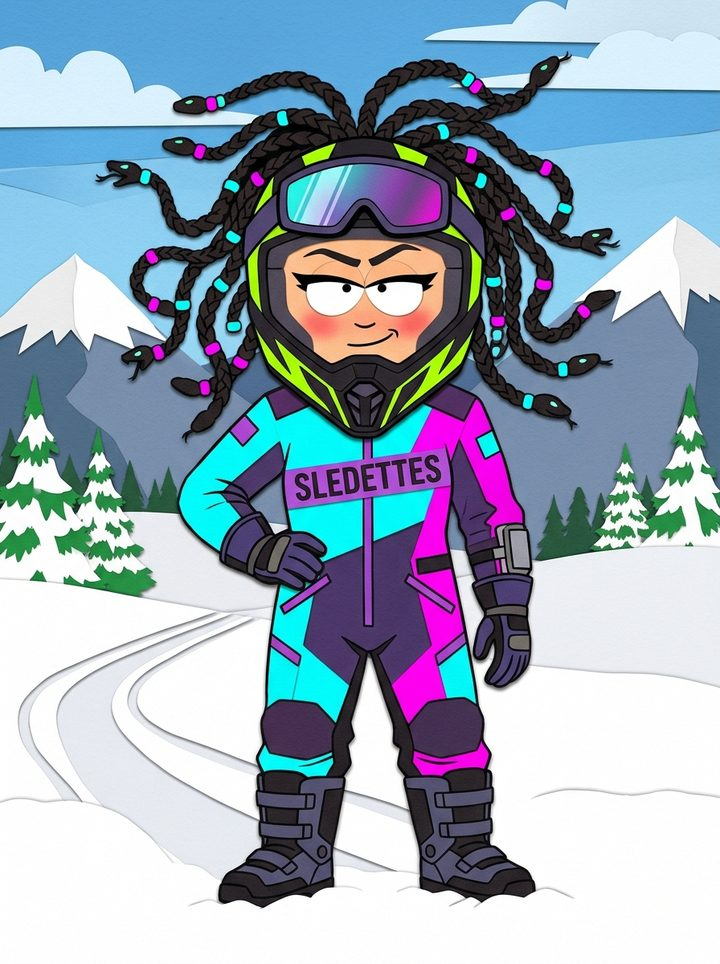
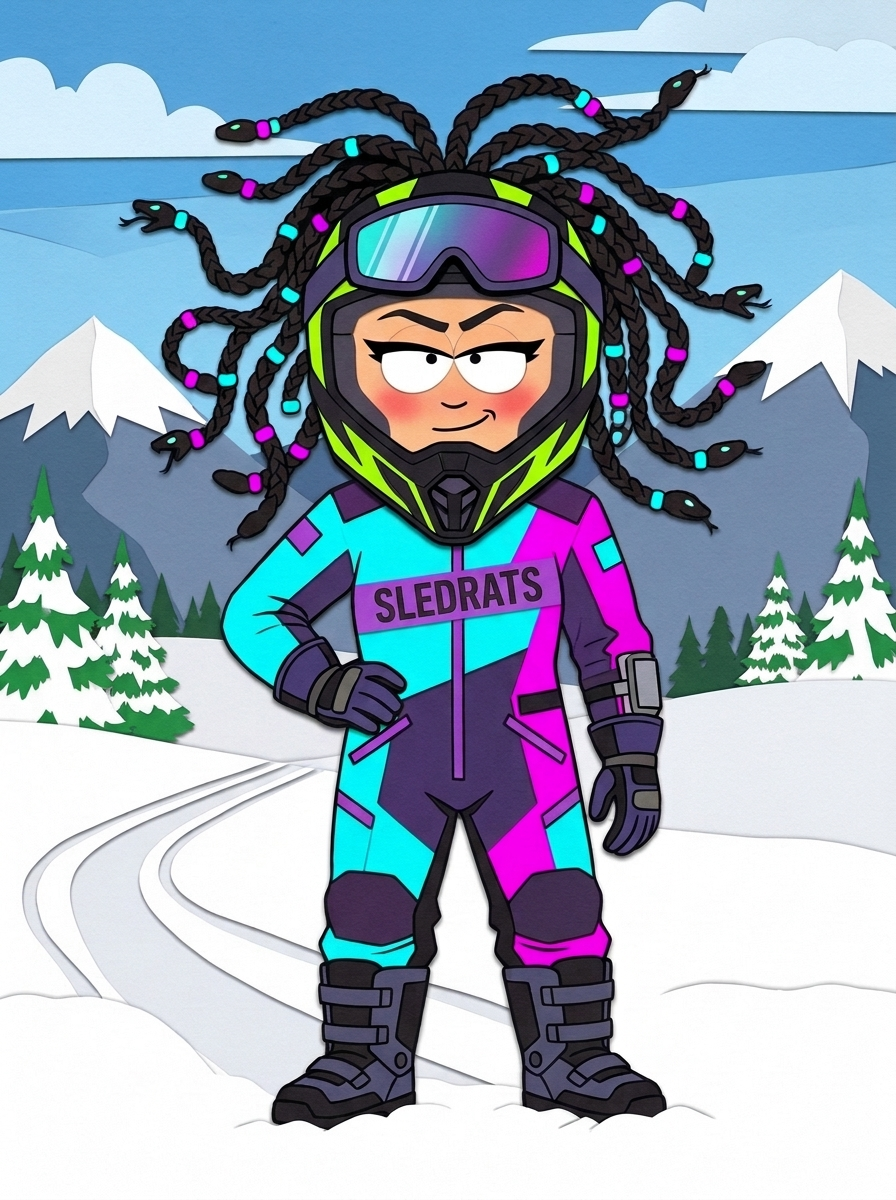
Publish Medusa with official SledRats rebrand

diff --git a/index.html b/index.html
@@ -110,7 +110,7 @@ footer{padding-block:48px 56px;color:var(--muted);font-size:14px}
     <figure class="snap"><div class="ph"><img src="mama-hen.jpg" alt="Mama Hen in a burgundy puffer jacket and gold hoops, holding a mug on a cabin porch" loading="lazy"></div>
       <h3>Mama Hen</h3><div class="role">The matriarch &amp; anchor</div>
       <p>Glamorous cabin matriarch with Tina Turner warmth and total authority. Voice of sanity who keeps the coffee hot. Rides her 9R only when the mood strikes—otherwise holding court by the fireplace.</p><span class="sled">Polaris 9R · pink &amp; black</span></figure>
-    <figure class="snap"><div class="ph todo"><span>Medusa<br>SledRats Rebrand<br>In Progress</span></div>
+    <figure class="snap"><div class="ph"><img src="medusa.jpg" alt="Medusa in a teal and magenta SledRats suit with serpentine braids flying from her helmet" loading="lazy"></div>
       <h3>Medusa</h3><div class="role">Leader of the SledRats</div>
       <p>Leader of the fearless SledRats crew, backcountry icon, and Ridge’s competitive peer on the ridge line. Fast, fierce, and always ready to bet a round of hot cider that she'll take the Divide first.</p><span class="sled">Polaris Boost · teal &amp; pink</span></figure>
     <figure class="snap"><div class="ph"><img src="anvill.jpg" alt="Anvill in a camo cap and black tee with tattooed arms, standing in front of his custom shop" loading="lazy"></div>
